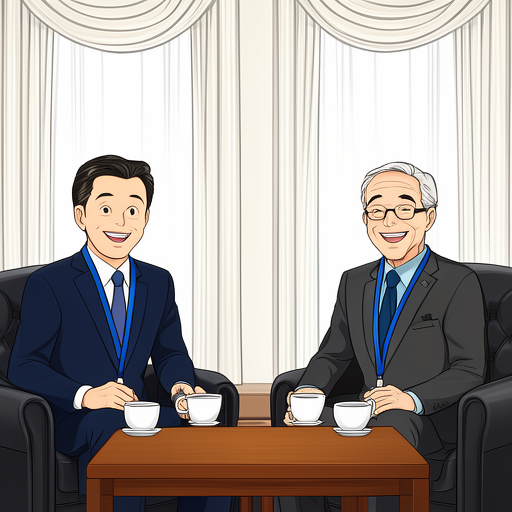
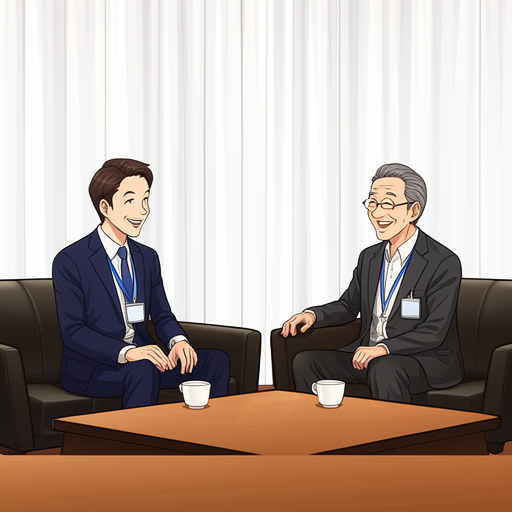
feat(illustrator): Replace illustration for #04 [CC01] with 4:3 non-frontal FLUX.2 9B

diff --git a/docs/index.html b/docs/index.html
@@ -18,7 +18,7 @@
       <div class="stat-pill"><strong>42</strong> 収録エピソード</div>
       <div class="stat-pill"><strong>42</strong> 挿絵付き作品</div>
       <div class="stat-pill">📘 A: <strong>15</strong> ／ 💻 B: <strong>13</strong> ／ ⚖ C: <strong>14</strong></div>
-      <div class="stat-pill">最終更新: 2026-10-09 19:42 JST</div>
+      <div class="stat-pill">最終更新: 2026-10-09 19:47 JST</div>
     </div>
   </header>
 
